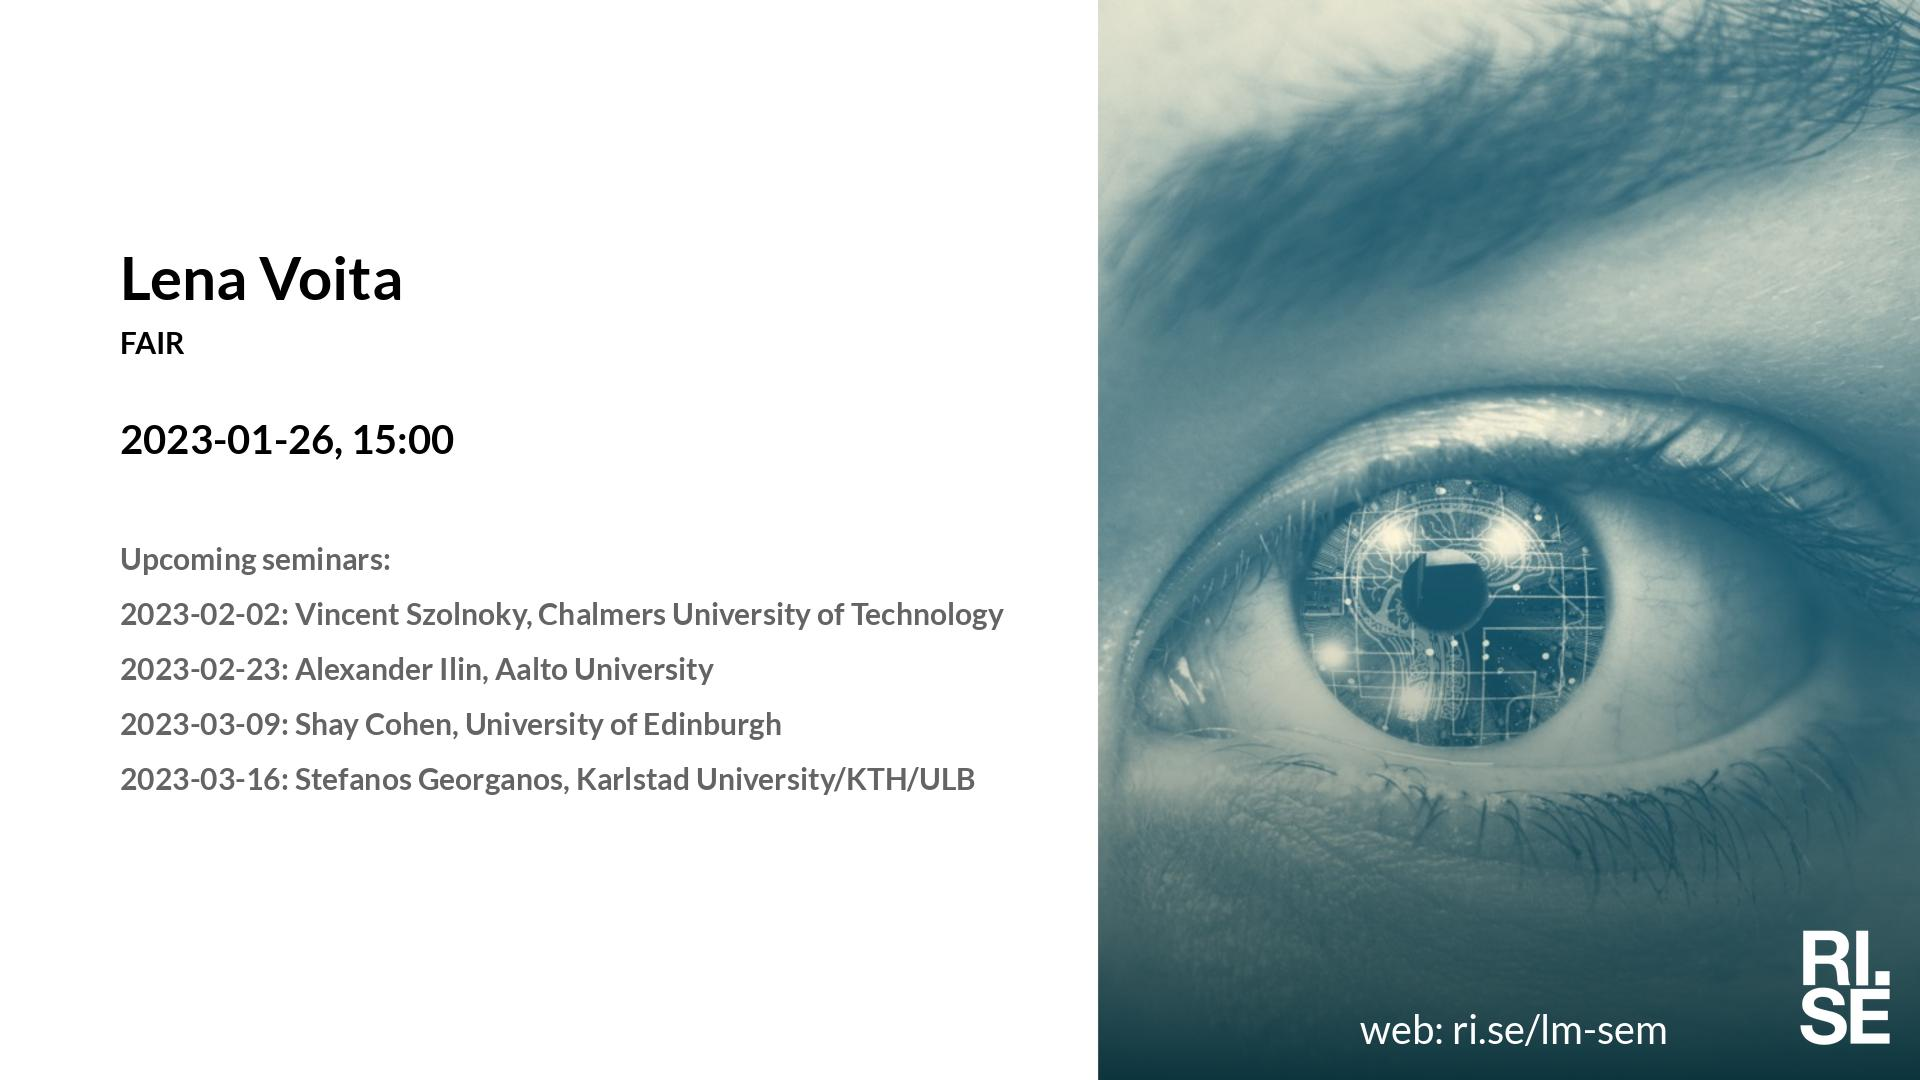
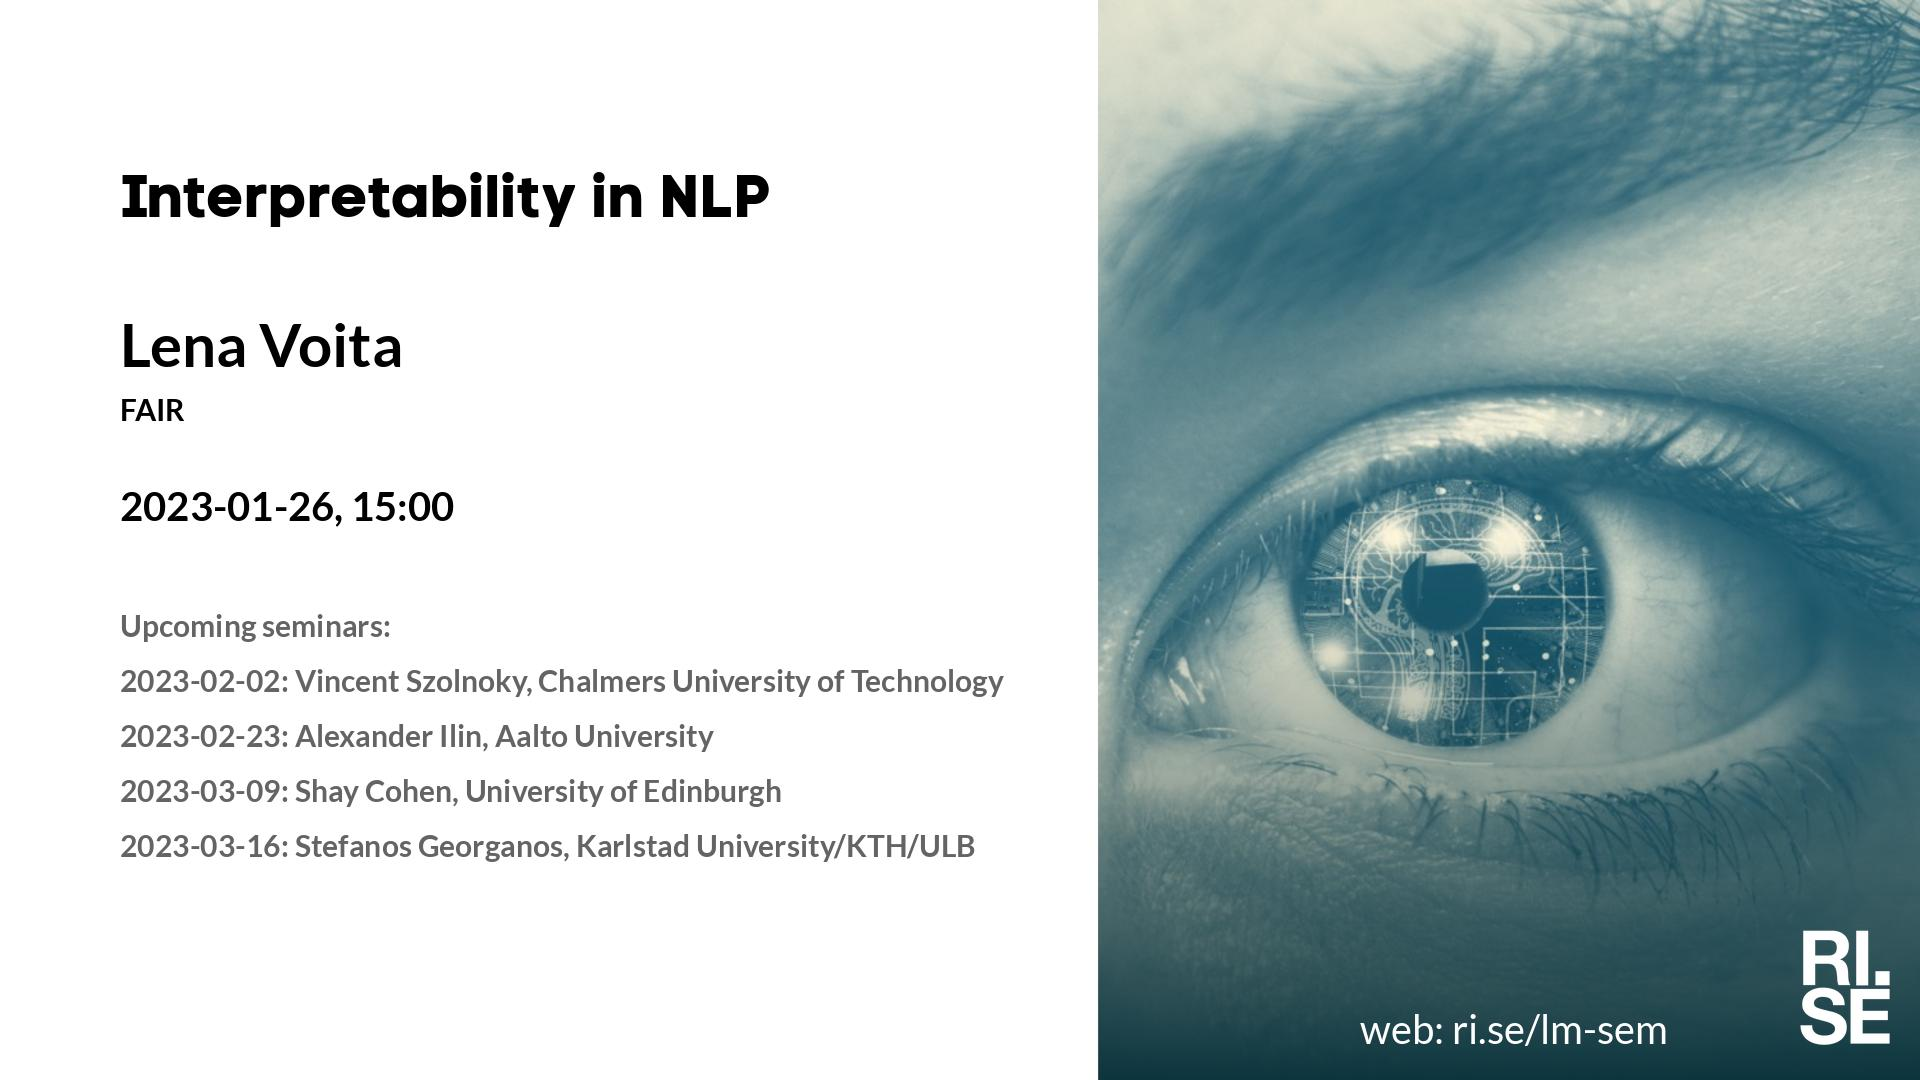
Updated plan on web site.

diff --git a/lm/2023-01-26.md b/lm/2023-01-26.md
@@ -1,12 +1,12 @@
 Welcome to this week's Learning Machines seminar.
 
-**Title:** 
+**Title:** A Journey on Interpretability Methods in NLP: Inside-Out and Back
 
 **Speaker:** Lena Voita, FAIR
 
-**Abstract:** 
+**Abstract:** In this talk, I will illustrate several approaches, motivations and ideas behind analysis of NLP models. As an example, we will take the standard Transformer model trained for the Machine Translation task and will look at it from different points of view. We will start our journey from examining model components and seeing how, and whether, model’s inductive biases facilitate performing the task. Next, we turn to the kinds of information the model relies on to make its predictions. Here we will use attribution methods and will see how some potentially pathological behaviours look on the inside. Finally, we will turn our view inside-out, i.e. from inner workings of the model to analysing its outputs. In this part, we will discover that the way the model learns to translate is very similar to how humans do it: from learning word-by-word translation first to becoming more fluent later. Most importantly, the two views (from the inside and from the outside) show the same process, and we will see how this process is reflected in these two types of analysis.
 
-**About the speaker:** 
+**About the speaker:** Elena (Lena) Voita is a Research Scientist at Facebook AI Research (joined recently). She is mostly interested in understanding what and how neural models learn. Previously, she was a PhD student at the University of Edinburgh supervised by Ivan Titov and Rico Sennrich, was awarded Facebook PhD Fellowship, worked as a Research Scientist at Yandex Research side by side with the Yandex Translate team. She enjoys writing blog posts and teaching; a public version of (a part of) her NLP course is available at NLP Course For You.
 
 **Location:** This is an online seminar. Connect using Zoom.
 

diff --git a/lm/index.md b/lm/index.md
@@ -1,7 +1,7 @@
 <style type="text/css" scoped>
 td, th {border: 1px solid #ccc; padding: 0.6em;}
 table {border-collapse: collapse;}
-</style># Learning Machines Plan 2022-12-15
+</style># Learning Machines Plan 2022-12-19
 
 | date | speaker                                   | photo | shareable | meeting backdrop | youtube thumbnail | comment        |
 | ---- | ----------------------------------------- | ----- | ----- | ----- | ----- | -------------- |
